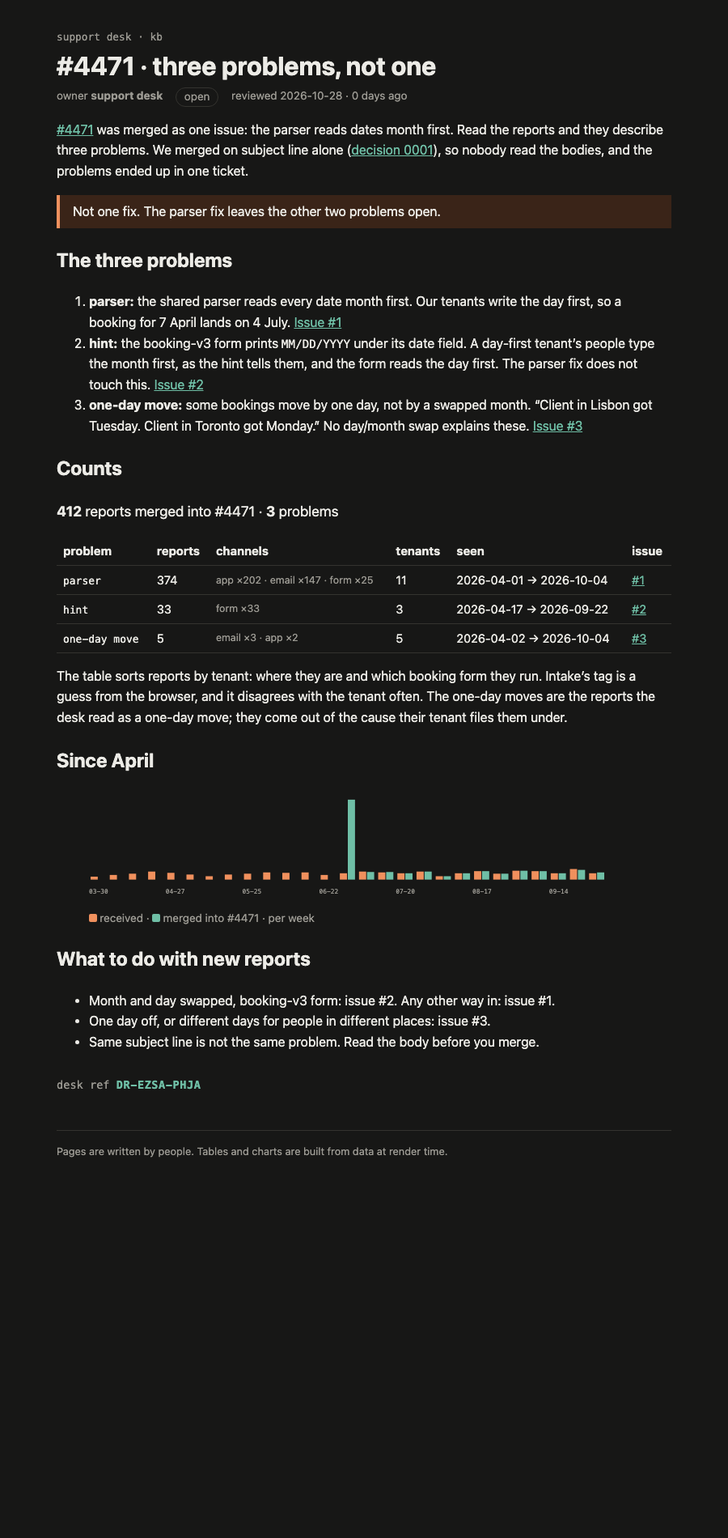
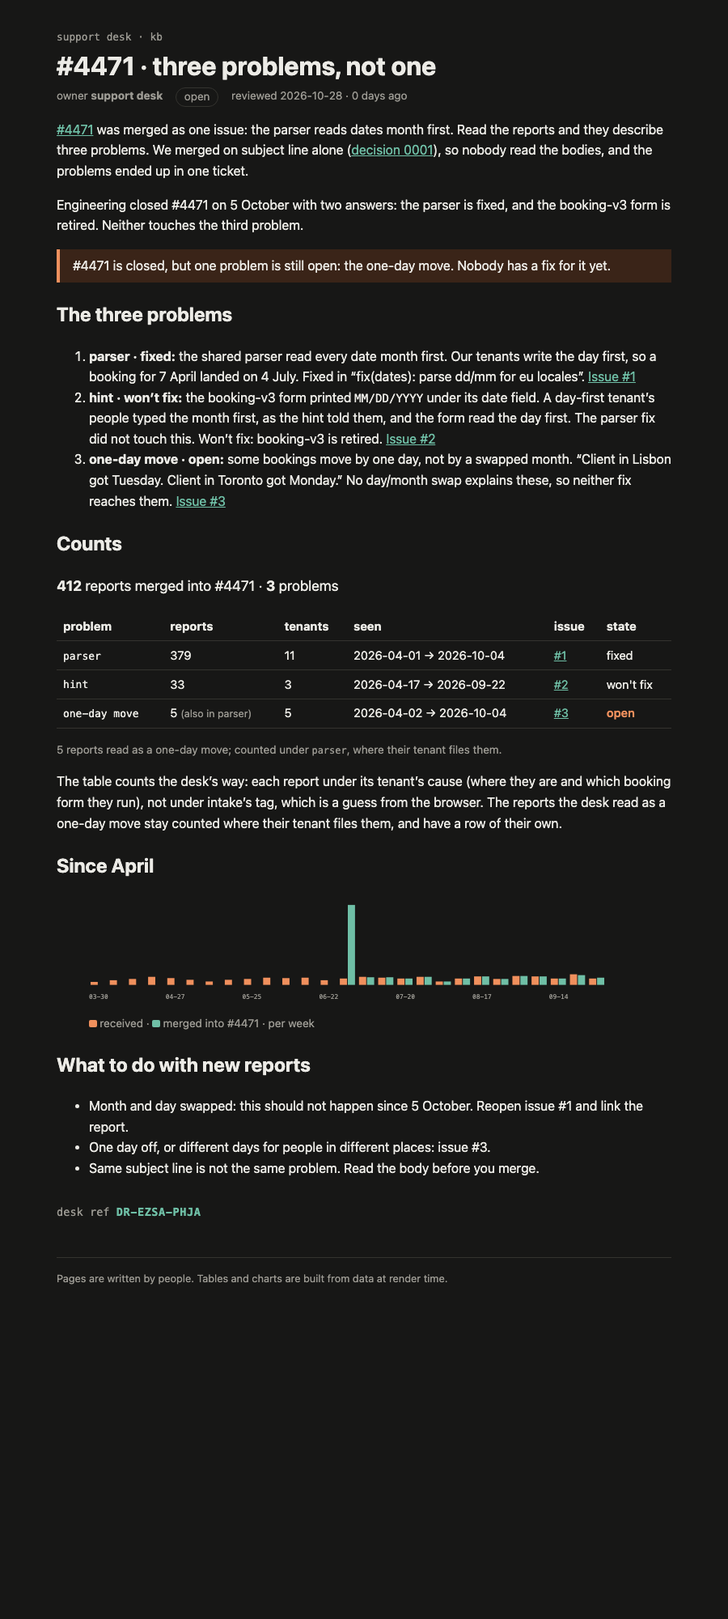
Record the #4471 engineering update on the kb page
Parser fixed, hint won't fix (booking-v3 retired), one-day move still open.
The table now counts the desk's way, so the one-day moves stay in parser
and have their own row. Render and README refreshed.

diff --git a/rendered/4471-split.html b/rendered/4471-split.html
@@ -24,21 +24,25 @@
 </style>
 		<style>svg.svelte-18a6qal{width:100%;max-width:640px}.in.svelte-18a6qal{fill:var(--warn)}.merged.svelte-18a6qal{fill:var(--accent)}text.svelte-18a6qal{font:8px var(--mono);fill:var(--muted);text-anchor:middle}figcaption.svelte-18a6qal{color:var(--muted);font-size:.85rem}.key.svelte-18a6qal{border-radius:2px;width:.7em;height:.7em;display:inline-block}.key.in.svelte-18a6qal{background:var(--warn)}.key.merged.svelte-18a6qal{background:var(--accent)}
 </style>
-		<style>.sum.svelte-1op6c6{font-size:1.1rem}.muted.svelte-1op6c6{color:var(--muted);font-size:.85em}.none.svelte-1op6c6{color:var(--warn);font-weight:600}.stamp.svelte-1280m42{font:.85rem var(--mono);color:var(--muted);margin:2rem 0 0}.stamp.svelte-1280m42 b:where(.svelte-1280m42){color:var(--accent);letter-spacing:.04em}.missing.svelte-1280m42{color:var(--warn)}
+		<style>.sum.svelte-1op6c6{font-size:1.1rem}.muted.svelte-1op6c6{color:var(--muted);font-size:.85em}.open.svelte-1op6c6{color:var(--warn);font-weight:600}.stamp.svelte-1280m42{font:.85rem var(--mono);color:var(--muted);margin:2rem 0 0}.stamp.svelte-1280m42 b:where(.svelte-1280m42){color:var(--accent);letter-spacing:.04em}.missing.svelte-1280m42{color:var(--warn)}
 </style>
   </head>
   <body data-sveltekit-preload-data="hover">
     <div style="display: contents"><!--[--><!--[--><!--[0--><!--[--><!--[--><!--[-1--><!--[--><div class="kb svelte-e2jw2j"><header><a class="crumb svelte-e2jw2j" href="/kb">support desk · kb</a> <h1 class="svelte-e2jw2j">#4471 · three problems, not one</h1> <p class="meta svelte-e2jw2j"><span>owner <b>support desk</b></span> <span class="status open svelte-e2jw2j">open</span> <span class="svelte-e2jw2j">reviewed 2026-10-28 · 0 days ago</span></p></header> <!--[-1--><!--]--> <main><p><a href="/kb/incidents/4471">#4471</a> was merged as one issue: the parser reads dates month first. Read
 the reports and they describe three problems. We merged on subject line alone
 (<a href="/kb/decisions/0001-dedupe-by-subject">decision 0001</a>), so nobody read the bodies, and the
-problems ended up in one ticket.</p> <aside class="warn svelte-17bri61"><!---->Not one fix. The parser fix leaves the other two problems open.<!----></aside><!----> <h2>The three problems</h2> <ol><li><strong>parser:</strong> the shared parser reads every date month first. Our tenants write the day first,
-so a booking for 7 April lands on 4 July. <a href="https://github.com/KamilBielarczyk/mega-s01e03-what-it-shows/issues/1" rel="nofollow">Issue #1</a></li> <li><strong>hint:</strong> the booking-v3 form prints <code>MM/DD/YYYY</code> under its date field. A day-first tenant’s
-people type the month first, as the hint tells them, and the form reads the day first.
-The parser fix does not touch this. <a href="https://github.com/KamilBielarczyk/mega-s01e03-what-it-shows/issues/2" rel="nofollow">Issue #2</a></li> <li><strong>one-day move:</strong> some bookings move by one day, not by a swapped month. “Client in Lisbon
-got Tuesday. Client in Toronto got Monday.” No day/month swap explains these. <a href="https://github.com/KamilBielarczyk/mega-s01e03-what-it-shows/issues/3" rel="nofollow">Issue #3</a></li></ol> <h2>Counts</h2> <p class="sum svelte-1op6c6"><strong>412</strong> reports merged into #4471 · <strong>3</strong> problems</p> <table><thead><tr><th>problem</th><th>reports</th><th>channels</th><th>tenants</th><th>seen</th><th>issue</th></tr></thead><tbody><!--[--><tr><td><code>parser</code></td><td>374</td><td class="muted svelte-1op6c6">app ×202 · email ×147 · form ×25</td><td>11</td><td>2026-04-01 → 2026-10-04</td><td><!--[0--><a href="https://github.com/KamilBielarczyk/mega-s01e03-what-it-shows/issues/1">#1</a><!--]--></td></tr><tr><td><code>hint</code></td><td>33</td><td class="muted svelte-1op6c6">form ×33</td><td>3</td><td>2026-04-17 → 2026-09-22</td><td><!--[0--><a href="https://github.com/KamilBielarczyk/mega-s01e03-what-it-shows/issues/2">#2</a><!--]--></td></tr><tr><td><code>one-day move</code></td><td>5</td><td class="muted svelte-1op6c6">email ×3 · app ×2</td><td>5</td><td>2026-04-02 → 2026-10-04</td><td><!--[0--><a href="https://github.com/KamilBielarczyk/mega-s01e03-what-it-shows/issues/3">#3</a><!--]--></td></tr><!--]--></tbody></table><!----> <p>The table sorts reports by tenant: where they are and which booking form they run. Intake’s tag
-is a guess from the browser, and it disagrees with the tenant often. The one-day moves are the
-reports the desk read as a one-day move; they come out of the cause their tenant files them
-under.</p> <h2>Since April</h2> <figure><svg viewBox="0 0 648 140" role="img" aria-label="reports received and merged into #4471, per week" class="svelte-18a6qal"><!--[--><rect class="in svelte-18a6qal" x="2" y="106.29629629629629" width="9" height="3.7037037037037033"></rect><rect class="merged svelte-18a6qal" x="12" y="110" width="9" height="0"></rect><!--[0--><text x="12" y="128" class="svelte-18a6qal">03-30</text><!--]--><rect class="in svelte-18a6qal" x="26" y="104.17989417989418" width="9" height="5.82010582010582"></rect><rect class="merged svelte-18a6qal" x="36" y="110" width="9" height="0"></rect><!--[-1--><!--]--><rect class="in svelte-18a6qal" x="50" y="102.5925925925926" width="9" height="7.4074074074074066"></rect><rect class="merged svelte-18a6qal" x="60" y="110" width="9" height="0"></rect><!--[-1--><!--]--><rect class="in svelte-18a6qal" x="74" y="99.94708994708995" width="9" height="10.052910052910052"></rect><rect class="merged svelte-18a6qal" x="84" y="110" width="9" height="0"></rect><!--[-1--><!--]--><rect class="in svelte-18a6qal" x="98" y="101.53439153439153" width="9" height="8.465608465608465"></rect><rect class="merged svelte-18a6qal" x="108" y="110" width="9" height="0"></rect><!--[0--><text x="108" y="128" class="svelte-18a6qal">04-27</text><!--]--><rect class="in svelte-18a6qal" x="122" y="103.65079365079364" width="9" height="6.349206349206349"></rect><rect class="merged svelte-18a6qal" x="132" y="110" width="9" height="0"></rect><!--[-1--><!--]--><rect class="in svelte-18a6qal" x="146" y="105.76719576719577" width="9" height="4.232804232804233"></rect><rect class="merged svelte-18a6qal" x="156" y="110" width="9" height="0"></rect><!--[-1--><!--]--><rect class="in svelte-18a6qal" x="170" y="103.65079365079364" width="9" height="6.349206349206349"></rect><rect class="merged svelte-18a6qal" x="180" y="110" width="9" height="0"></rect><!--[-1--><!--]--><rect class="in svelte-18a6qal" x="194" y="102.5925925925926" width="9" height="7.4074074074074066"></rect><rect class="merged svelte-18a6qal" x="204" y="110" width="9" height="0"></rect><!--[0--><text x="204" y="128" class="svelte-18a6qal">05-25</text><!--]--><rect class="in svelte-18a6qal" x="218" y="101.00529100529101" width="9" height="8.994708994708994"></rect><rect class="merged svelte-18a6qal" x="228" y="110" width="9" height="0"></rect><!--[-1--><!--]--><rect class="in svelte-18a6qal" x="242" y="101.53439153439153" width="9" height="8.465608465608465"></rect><rect class="merged svelte-18a6qal" x="252" y="110" width="9" height="0"></rect><!--[-1--><!--]--><rect class="in svelte-18a6qal" x="266" y="101.00529100529101" width="9" height="8.994708994708994"></rect><rect class="merged svelte-18a6qal" x="276" y="110" width="9" height="0"></rect><!--[-1--><!--]--><rect class="in svelte-18a6qal" x="290" y="104.17989417989418" width="9" height="5.82010582010582"></rect><rect class="merged svelte-18a6qal" x="300" y="110" width="9" height="0"></rect><!--[0--><text x="300" y="128" class="svelte-18a6qal">06-22</text><!--]--><rect class="in svelte-18a6qal" x="314" y="102.06349206349206" width="9" height="7.936507936507936"></rect><rect class="merged svelte-18a6qal" x="324" y="10" width="9" height="100"></rect><!--[-1--><!--]--><rect class="in svelte-18a6qal" x="338" y="99.94708994708995" width="9" height="10.052910052910052"></rect><rect class="merged svelte-18a6qal" x="348" y="100.47619047619048" width="9" height="9.523809523809524"></rect><!--[-1--><!--]--><rect class="in svelte-18a6qal" x="362" y="101.00529100529101" width="9" height="8.994708994708994"></rect><rect class="merged svelte-18a6qal" x="372" y="100.47619047619048" width="9" height="9.523809523809524"></rect><!--[-1--><!--]--><rect class="in svelte-18a6qal" x="386" y="102.06349206349206" width="9" height="7.936507936507936"></rect><rect class="merged svelte-18a6qal" x="396" y="102.06349206349206" width="9" height="7.936507936507936"></rect><!--[0--><text x="396" y="128" class="svelte-18a6qal">07-20</text><!--]--><rect class="in svelte-18a6qal" x="410" y="99.94708994708995" width="9" height="10.052910052910052"></rect><rect class="merged svelte-18a6qal" x="420" y="99.94708994708995" width="9" height="10.052910052910052"></rect><!--[-1--><!--]--><rect class="in svelte-18a6qal" x="434" y="105.76719576719577" width="9" height="4.232804232804233"></rect><rect class="merged svelte-18a6qal" x="444" y="105.76719576719577" width="9" height="4.232804232804233"></rect><!--[-1--><!--]--><rect class="in svelte-18a6qal" x="458" y="102.06349206349206" width="9" height="7.936507936507936"></rect><rect class="merged svelte-18a6qal" x="468" y="102.06349206349206" width="9" height="7.936507936507936"></rect><!--[-1--><!--]--><rect class="in svelte-18a6qal" x="482" y="99.41798941798942" width="9" height="10.582010582010582"></rect><rect class="merged svelte-18a6qal" x="492" y="99.41798941798942" width="9" height="10.582010582010582"></rect><!--[0--><text x="492" y="128" class="svelte-18a6qal">08-17</text><!--]--><rect class="in svelte-18a6qal" x="506" y="102.5925925925926" width="9" height="7.4074074074074066"></rect><rect class="merged svelte-18a6qal" x="516" y="102.5925925925926" width="9" height="7.4074074074074066"></rect><!--[-1--><!--]--><rect class="in svelte-18a6qal" x="530" y="98.88888888888889" width="9" height="11.11111111111111"></rect><rect class="merged svelte-18a6qal" x="540" y="98.88888888888889" width="9" height="11.11111111111111"></rect><!--[-1--><!--]--><rect class="in svelte-18a6qal" x="554" y="99.41798941798942" width="9" height="10.582010582010582"></rect><rect class="merged svelte-18a6qal" x="564" y="99.41798941798942" width="9" height="10.582010582010582"></rect><!--[-1--><!--]--><rect class="in svelte-18a6qal" x="578" y="102.06349206349206" width="9" height="7.936507936507936"></rect><rect class="merged svelte-18a6qal" x="588" y="102.06349206349206" width="9" height="7.936507936507936"></rect><!--[0--><text x="588" y="128" class="svelte-18a6qal">09-14</text><!--]--><rect class="in svelte-18a6qal" x="602" y="96.77248677248677" width="9" height="13.227513227513226"></rect><rect class="merged svelte-18a6qal" x="612" y="97.83068783068784" width="9" height="12.16931216931217"></rect><!--[-1--><!--]--><rect class="in svelte-18a6qal" x="626" y="102.06349206349206" width="9" height="7.936507936507936"></rect><rect class="merged svelte-18a6qal" x="636" y="101.00529100529101" width="9" height="8.994708994708994"></rect><!--[-1--><!--]--><!--]--></svg> <figcaption class="svelte-18a6qal"><span class="key in svelte-18a6qal"></span> received · <span class="key merged svelte-18a6qal"></span> merged into #4471 · per week</figcaption></figure><!----> <h2>What to do with new reports</h2> <ul><li>Month and day swapped, booking-v3 form: issue #2. Any other way in: issue #1.</li> <li>One day off, or different days for people in different places: issue #3.</li> <li>Same subject line is not the same problem. Read the body before you merge.</li></ul> <!--[0--><p class="stamp svelte-1280m42">desk ref <b class="svelte-1280m42">DR-EZSA-PHJA</b></p><!--]--><!----><!----></main> <footer class="svelte-e2jw2j">Pages are written by people. Tables and charts are built from data at render time.</footer></div><!--]--><!--]--><!--]--><!----><!--]--><!--]--><!--]--><!----> <!--[-1--><!--]--><!--]-->
+problems ended up in one ticket.</p> <p>Engineering closed #4471 on 5 October with two answers: the parser is fixed, and the booking-v3
+form is retired. Neither touches the third problem.</p> <aside class="warn svelte-17bri61"><!---->#4471 is closed, but one problem is still open: the one-day move. Nobody has a fix for it yet.<!----></aside><!----> <h2>The three problems</h2> <ol><li><strong>parser · fixed:</strong> the shared parser read every date month first. Our tenants write the day
+first, so a booking for 7 April landed on 4 July. Fixed in “fix(dates): parse dd/mm for eu
+locales”. <a href="https://github.com/KamilBielarczyk/mega-s01e03-what-it-shows/issues/1" rel="nofollow">Issue #1</a></li> <li><strong>hint · won’t fix:</strong> the booking-v3 form printed <code>MM/DD/YYYY</code> under its date field. A
+day-first tenant’s people typed the month first, as the hint told them, and the form read
+the day first. The parser fix did not touch this. Won’t fix: booking-v3 is retired. <a href="https://github.com/KamilBielarczyk/mega-s01e03-what-it-shows/issues/2" rel="nofollow">Issue #2</a></li> <li><strong>one-day move · open:</strong> some bookings move by one day, not by a swapped month. “Client in
+Lisbon got Tuesday. Client in Toronto got Monday.” No day/month swap explains these, so
+neither fix reaches them. <a href="https://github.com/KamilBielarczyk/mega-s01e03-what-it-shows/issues/3" rel="nofollow">Issue #3</a></li></ol> <h2>Counts</h2> <p class="sum svelte-1op6c6"><strong>412</strong> reports merged into #4471 · <strong>3</strong> problems</p> <table><thead><tr><th>problem</th><th>reports</th><th>tenants</th><th>seen</th><th>issue</th><th>state</th></tr></thead><tbody><!--[--><tr><td><code>parser</code></td><td>379<!--[-1--><!--]--></td><td>11</td><td>2026-04-01 → 2026-10-04</td><td><!--[0--><a href="https://github.com/KamilBielarczyk/mega-s01e03-what-it-shows/issues/1">#1</a><!--]--></td><td class="svelte-1op6c6">fixed</td></tr><tr><td><code>hint</code></td><td>33<!--[-1--><!--]--></td><td>3</td><td>2026-04-17 → 2026-09-22</td><td><!--[0--><a href="https://github.com/KamilBielarczyk/mega-s01e03-what-it-shows/issues/2">#2</a><!--]--></td><td class="svelte-1op6c6">won't fix</td></tr><tr><td><code>one-day move</code></td><td>5<!--[0--> <span class="muted svelte-1op6c6">(also in parser)</span><!--]--></td><td>5</td><td>2026-04-02 → 2026-10-04</td><td><!--[0--><a href="https://github.com/KamilBielarczyk/mega-s01e03-what-it-shows/issues/3">#3</a><!--]--></td><td class="svelte-1op6c6 open">open</td></tr><!--]--></tbody></table> <!--[--><!--[0--><p class="muted svelte-1op6c6">5 reports read as a one-day move; counted under <code>parser</code>, where their tenant files them.</p><!--]--><!--[-1--><!--]--><!--]--><!----> <p>The table counts the desk’s way: each report under its tenant’s cause (where they are and which
+booking form they run), not under intake’s tag, which is a guess from the browser. The reports
+the desk read as a one-day move stay counted where their tenant files them, and have a row of
+their own.</p> <h2>Since April</h2> <figure><svg viewBox="0 0 648 140" role="img" aria-label="reports received and merged into #4471, per week" class="svelte-18a6qal"><!--[--><rect class="in svelte-18a6qal" x="2" y="106.29629629629629" width="9" height="3.7037037037037033"></rect><rect class="merged svelte-18a6qal" x="12" y="110" width="9" height="0"></rect><!--[0--><text x="12" y="128" class="svelte-18a6qal">03-30</text><!--]--><rect class="in svelte-18a6qal" x="26" y="104.17989417989418" width="9" height="5.82010582010582"></rect><rect class="merged svelte-18a6qal" x="36" y="110" width="9" height="0"></rect><!--[-1--><!--]--><rect class="in svelte-18a6qal" x="50" y="102.5925925925926" width="9" height="7.4074074074074066"></rect><rect class="merged svelte-18a6qal" x="60" y="110" width="9" height="0"></rect><!--[-1--><!--]--><rect class="in svelte-18a6qal" x="74" y="99.94708994708995" width="9" height="10.052910052910052"></rect><rect class="merged svelte-18a6qal" x="84" y="110" width="9" height="0"></rect><!--[-1--><!--]--><rect class="in svelte-18a6qal" x="98" y="101.53439153439153" width="9" height="8.465608465608465"></rect><rect class="merged svelte-18a6qal" x="108" y="110" width="9" height="0"></rect><!--[0--><text x="108" y="128" class="svelte-18a6qal">04-27</text><!--]--><rect class="in svelte-18a6qal" x="122" y="103.65079365079364" width="9" height="6.349206349206349"></rect><rect class="merged svelte-18a6qal" x="132" y="110" width="9" height="0"></rect><!--[-1--><!--]--><rect class="in svelte-18a6qal" x="146" y="105.76719576719577" width="9" height="4.232804232804233"></rect><rect class="merged svelte-18a6qal" x="156" y="110" width="9" height="0"></rect><!--[-1--><!--]--><rect class="in svelte-18a6qal" x="170" y="103.65079365079364" width="9" height="6.349206349206349"></rect><rect class="merged svelte-18a6qal" x="180" y="110" width="9" height="0"></rect><!--[-1--><!--]--><rect class="in svelte-18a6qal" x="194" y="102.5925925925926" width="9" height="7.4074074074074066"></rect><rect class="merged svelte-18a6qal" x="204" y="110" width="9" height="0"></rect><!--[0--><text x="204" y="128" class="svelte-18a6qal">05-25</text><!--]--><rect class="in svelte-18a6qal" x="218" y="101.00529100529101" width="9" height="8.994708994708994"></rect><rect class="merged svelte-18a6qal" x="228" y="110" width="9" height="0"></rect><!--[-1--><!--]--><rect class="in svelte-18a6qal" x="242" y="101.53439153439153" width="9" height="8.465608465608465"></rect><rect class="merged svelte-18a6qal" x="252" y="110" width="9" height="0"></rect><!--[-1--><!--]--><rect class="in svelte-18a6qal" x="266" y="101.00529100529101" width="9" height="8.994708994708994"></rect><rect class="merged svelte-18a6qal" x="276" y="110" width="9" height="0"></rect><!--[-1--><!--]--><rect class="in svelte-18a6qal" x="290" y="104.17989417989418" width="9" height="5.82010582010582"></rect><rect class="merged svelte-18a6qal" x="300" y="110" width="9" height="0"></rect><!--[0--><text x="300" y="128" class="svelte-18a6qal">06-22</text><!--]--><rect class="in svelte-18a6qal" x="314" y="102.06349206349206" width="9" height="7.936507936507936"></rect><rect class="merged svelte-18a6qal" x="324" y="10" width="9" height="100"></rect><!--[-1--><!--]--><rect class="in svelte-18a6qal" x="338" y="99.94708994708995" width="9" height="10.052910052910052"></rect><rect class="merged svelte-18a6qal" x="348" y="100.47619047619048" width="9" height="9.523809523809524"></rect><!--[-1--><!--]--><rect class="in svelte-18a6qal" x="362" y="101.00529100529101" width="9" height="8.994708994708994"></rect><rect class="merged svelte-18a6qal" x="372" y="100.47619047619048" width="9" height="9.523809523809524"></rect><!--[-1--><!--]--><rect class="in svelte-18a6qal" x="386" y="102.06349206349206" width="9" height="7.936507936507936"></rect><rect class="merged svelte-18a6qal" x="396" y="102.06349206349206" width="9" height="7.936507936507936"></rect><!--[0--><text x="396" y="128" class="svelte-18a6qal">07-20</text><!--]--><rect class="in svelte-18a6qal" x="410" y="99.94708994708995" width="9" height="10.052910052910052"></rect><rect class="merged svelte-18a6qal" x="420" y="99.94708994708995" width="9" height="10.052910052910052"></rect><!--[-1--><!--]--><rect class="in svelte-18a6qal" x="434" y="105.76719576719577" width="9" height="4.232804232804233"></rect><rect class="merged svelte-18a6qal" x="444" y="105.76719576719577" width="9" height="4.232804232804233"></rect><!--[-1--><!--]--><rect class="in svelte-18a6qal" x="458" y="102.06349206349206" width="9" height="7.936507936507936"></rect><rect class="merged svelte-18a6qal" x="468" y="102.06349206349206" width="9" height="7.936507936507936"></rect><!--[-1--><!--]--><rect class="in svelte-18a6qal" x="482" y="99.41798941798942" width="9" height="10.582010582010582"></rect><rect class="merged svelte-18a6qal" x="492" y="99.41798941798942" width="9" height="10.582010582010582"></rect><!--[0--><text x="492" y="128" class="svelte-18a6qal">08-17</text><!--]--><rect class="in svelte-18a6qal" x="506" y="102.5925925925926" width="9" height="7.4074074074074066"></rect><rect class="merged svelte-18a6qal" x="516" y="102.5925925925926" width="9" height="7.4074074074074066"></rect><!--[-1--><!--]--><rect class="in svelte-18a6qal" x="530" y="98.88888888888889" width="9" height="11.11111111111111"></rect><rect class="merged svelte-18a6qal" x="540" y="98.88888888888889" width="9" height="11.11111111111111"></rect><!--[-1--><!--]--><rect class="in svelte-18a6qal" x="554" y="99.41798941798942" width="9" height="10.582010582010582"></rect><rect class="merged svelte-18a6qal" x="564" y="99.41798941798942" width="9" height="10.582010582010582"></rect><!--[-1--><!--]--><rect class="in svelte-18a6qal" x="578" y="102.06349206349206" width="9" height="7.936507936507936"></rect><rect class="merged svelte-18a6qal" x="588" y="102.06349206349206" width="9" height="7.936507936507936"></rect><!--[0--><text x="588" y="128" class="svelte-18a6qal">09-14</text><!--]--><rect class="in svelte-18a6qal" x="602" y="96.77248677248677" width="9" height="13.227513227513226"></rect><rect class="merged svelte-18a6qal" x="612" y="97.83068783068784" width="9" height="12.16931216931217"></rect><!--[-1--><!--]--><rect class="in svelte-18a6qal" x="626" y="102.06349206349206" width="9" height="7.936507936507936"></rect><rect class="merged svelte-18a6qal" x="636" y="101.00529100529101" width="9" height="8.994708994708994"></rect><!--[-1--><!--]--><!--]--></svg> <figcaption class="svelte-18a6qal"><span class="key in svelte-18a6qal"></span> received · <span class="key merged svelte-18a6qal"></span> merged into #4471 · per week</figcaption></figure><!----> <h2>What to do with new reports</h2> <ul><li>Month and day swapped: this should not happen since 5 October. Reopen issue #1 and link the
+report.</li> <li>One day off, or different days for people in different places: issue #3.</li> <li>Same subject line is not the same problem. Read the body before you merge.</li></ul> <!--[0--><p class="stamp svelte-1280m42">desk ref <b class="svelte-1280m42">DR-EZSA-PHJA</b></p><!--]--><!----><!----></main> <footer class="svelte-e2jw2j">Pages are written by people. Tables and charts are built from data at render time.</footer></div><!--]--><!--]--><!--]--><!----><!--]--><!--]--><!--]--><!----> <!--[-1--><!--]--><!--]-->
 			
 			
 		</div>

diff --git a/kb/src/lib/kb/ProblemTable.svelte b/kb/src/lib/kb/ProblemTable.svelte
@@ -1,36 +1,36 @@
 <script lang="ts">
   import reports from '#lib/data/reports-4471.json';
   import notes from '#lib/data/desk-notes.json';
-  import { causeOf, uniqueById, type Report } from '#lib/kb/causes';
+  import { groupByCause, readAs, uniqueById, type CauseGroup, type Report } from '#lib/kb/causes';
   import { tenantOf } from '#lib/kb/locales';
 
-  // One row per problem in a ticket: the causes from causes.ts, plus the reports the desk read as a
-  // one-day move (desk-notes.json), taken out of the cause their tenant files them under.
-  let { ticket, issues = {} }: { ticket: number; issues?: Record<string, string> } = $props();
+  // One row per problem in a ticket, counted the desk's way (CauseTable): each report under its
+  // tenant's cause, and the reports the desk read as a one-day move (desk-notes.json) counted
+  // there too, with a row of their own.
+  type Issue = { href: string; state: string };
+  let { ticket, issues = {} }: { ticket: number; issues?: Record<string, Issue> } = $props();
 
   const ONE_DAY = 'one-day move';
-  const problemOf = (r: Report) =>
-    notes.oneDayMove.includes(r.id) ? ONE_DAY : (causeOf(r, tenantOf(r)) ?? 'unplaced');
 
   const merged = $derived(uniqueById(reports as Report[]).filter((r) => r.mergedInto === ticket));
-  const rows = $derived(
-    [...Map.groupBy(merged, problemOf).entries()]
-      .map(([problem, rs]) => {
-        const days = rs.map((r) => r.receivedAt.slice(0, 10)).sort();
-        return {
-          problem,
-          reports: rs.length,
-          tenants: new Set(rs.map((r) => r.tenant)).size,
-          channels: [...Map.groupBy(rs, (r) => r.channel).entries()]
-            .sort((a, b) => b[1].length - a[1].length)
-            .map(([c, xs]) => `${c} ×${xs.length}`)
-            .join(' · '),
-          firstSeen: days[0],
-          lastSeen: days[days.length - 1],
-        };
-      })
-      .sort((a, b) => b.reports - a.reports),
-  );
+  const causes = $derived(groupByCause(merged, tenantOf));
+  const moved = $derived(merged.filter((r) => notes.oneDayMove.includes(r.id)));
+
+  const row = (problem: string, rs: Report[], alsoIn: CauseGroup[] = []) => {
+    const days = rs.map((r) => r.receivedAt.slice(0, 10)).sort();
+    return {
+      problem,
+      reports: rs.length,
+      tenants: new Set(rs.map((r) => r.tenant)).size,
+      firstSeen: days[0],
+      lastSeen: days[days.length - 1],
+      alsoIn: alsoIn.filter((g) => readAs(g, rs.map((r) => r.id)) > 0).map((g) => g.cause),
+    };
+  };
+  const rows = $derived([
+    ...causes.map((g) => row(g.cause, g.reports)),
+    ...(moved.length ? [row(ONE_DAY, moved, causes)] : []),
+  ]);
 </script>
 
 <p class="sum">
@@ -41,27 +41,35 @@
 
 <table>
   <thead>
-    <tr><th>problem</th><th>reports</th><th>channels</th><th>tenants</th><th>seen</th><th>issue</th></tr>
+    <tr><th>problem</th><th>reports</th><th>tenants</th><th>seen</th><th>issue</th><th>state</th></tr>
   </thead>
   <tbody>
-    {#each rows as row (row.problem)}
+    {#each rows as r (r.problem)}
+      {@const issue = issues[r.problem]}
       <tr>
-        <td><code>{row.problem}</code></td>
-        <td>{row.reports}</td>
-        <td class="muted">{row.channels}</td>
-        <td>{row.tenants}</td>
-        <td>{row.firstSeen} → {row.lastSeen}</td>
+        <td><code>{r.problem}</code></td>
+        <td>{r.reports}{#if r.alsoIn.length}{' '}<span class="muted">(also in {r.alsoIn.join(', ')})</span>{/if}</td>
+        <td>{r.tenants}</td>
+        <td>{r.firstSeen} → {r.lastSeen}</td>
         <td>
-          {#if issues[row.problem]}<a href={issues[row.problem]}>#{issues[row.problem].split('/').pop()}</a>
-          {:else}<span class="none">none yet</span>{/if}
+          {#if issue}<a href={issue.href}>#{issue.href.split('/').pop()}</a>
+          {:else}<span class="open">none yet</span>{/if}
         </td>
+        <td class:open={issue?.state === 'open'}>{issue?.state ?? '—'}</td>
       </tr>
     {/each}
   </tbody>
 </table>
 
+{#each causes as g (g.cause)}
+  {@const n = readAs(g, notes.oneDayMove)}
+  {#if n}
+    <p class="muted">{n} reports read as a one-day move; counted under <code>{g.cause}</code>, where their tenant files them.</p>
+  {/if}
+{/each}
+
 <style>
   .sum { font-size: 1.1rem; }
   .muted { color: var(--muted); font-size: 0.85em; }
-  .none { color: var(--warn); font-weight: 600; }
+  .open { color: var(--warn); font-weight: 600; }
 </style>

diff --git a/README.md b/README.md
@@ -2,11 +2,13 @@
 
 Support ticket #4471 merged 412 date reports as one issue. They are three problems.
 
-| Problem | Reports | Issue |
-|---|---|---|
-| parser: day-first dates read month first | 374 | [#1](https://github.com/KamilBielarczyk/mega-s01e03-what-it-shows/issues/1) |
-| hint: booking-v3 form hints MM/DD/YYYY to day-first tenants | 33 | [#2](https://github.com/KamilBielarczyk/mega-s01e03-what-it-shows/issues/2) |
-| one-day move: bookings shift by one day | 5 | [#3](https://github.com/KamilBielarczyk/mega-s01e03-what-it-shows/issues/3) |
+| Problem | Reports | Issue | State |
+|---|---|---|---|
+| parser: day-first dates read month first | 379 | [#1](https://github.com/KamilBielarczyk/mega-s01e03-what-it-shows/issues/1) | fixed |
+| hint: booking-v3 form hints MM/DD/YYYY to day-first tenants | 33 | [#2](https://github.com/KamilBielarczyk/mega-s01e03-what-it-shows/issues/2) | won't fix (booking-v3 retired) |
+| one-day move: bookings shift by one day | 5 (also counted in parser) | [#3](https://github.com/KamilBielarczyk/mega-s01e03-what-it-shows/issues/3) | open |
+
+Counts follow the desk's own view of the export: each report under its tenant's cause; the five reports the desk read as a one-day move stay counted under parser and have their own issue too.
 
 ## The kb page
 
